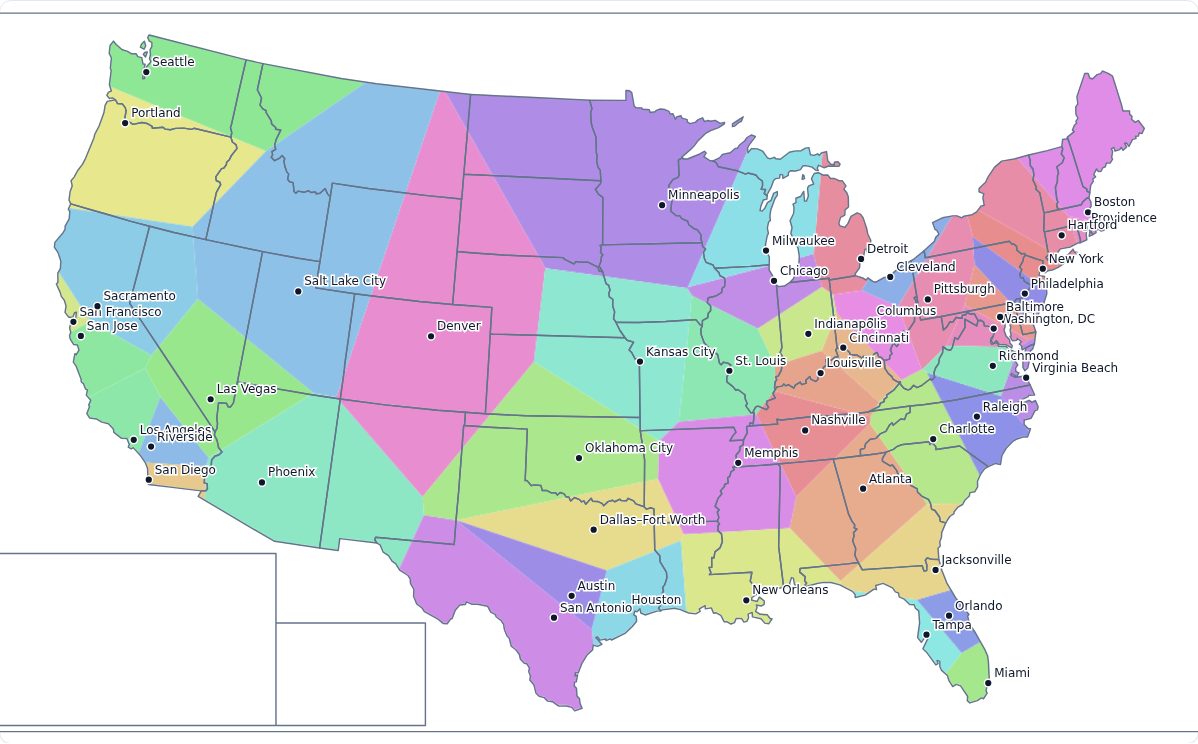
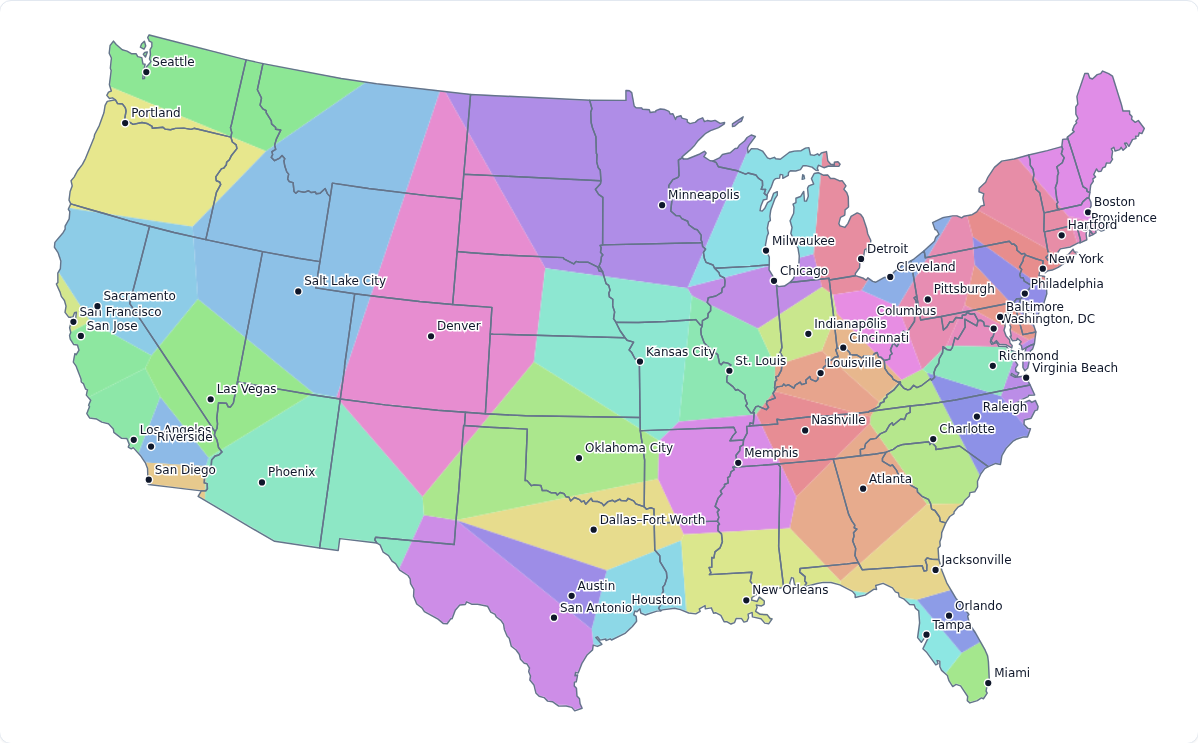
Remove map inset artifacts and align borders/fills to one lower-48 projection (#63)
* fix: use lower-48 Albers projection for every geometry layer; remove inset artifacts

* test: verify painted canvas pixels against state SVG paths on dense grid

* fix: align SVG land hit-testing fill-rule with Canvas evenodd clipping

* test: compare Canvas shading to independently rasterized US land mask to avoid SVG edge false positives

* test: update metro default screenshot [skip ci]

---------

Changed region(s): [[0.0, 0.9583, 0.3706, 0.9892], [0.0, 0.7419, 0.2471, 0.7728]]

diff --git a/src/components/MetroPopulationVoronoi.jsx b/src/components/MetroPopulationVoronoi.jsx
@@ -1,5 +1,5 @@
 import { useEffect, useMemo, useRef, useState } from 'react'
-import { Delaunay, geoAlbersUsa, geoPath } from 'd3'
+import { Delaunay, geoAlbers } from 'd3'
 
 // Illustrative seed data, NOT a complete or validated 2025 Census CBSA inventory.
 // Each row: anchor name, longitude, latitude, approximate metro population.
@@ -117,8 +117,7 @@ const EXCLUDED = new Set(['Alaska', 'Hawaii', 'Puerto Rico'])
 const MIN = 100000
 const MAX = 20000000
 const PRESETS = [100000,250000,500000,1000000,1200000,2000000,5000000,10000000,20000000]
-const projection = geoAlbersUsa().scale(1260).translate([500,310])
-const path = geoPath(projection)
+const projection = geoAlbers().scale(1260).translate([500,310])
 const fmt = n => n >= 1000000 ? `${+(n/1000000).toFixed(2)}M` : `${Math.round(n/1000)}K`
 const clamp = n => Math.min(MAX,Math.max(MIN,Number.isFinite(n)?n:MIN))
 const toTrack = n => Math.round(1000*Math.log(clamp(n)/MIN)/Math.log(MAX/MIN))
@@ -237,7 +236,9 @@ export default function MetroPopulationVoronoi() {
     cellCache.current.set(key,result)
     return result
   },[qualifying,eligibleSignature])
-  const countryPaths = useMemo(()=>states.map(f=>path(f)).filter(Boolean),[states])
+  // Build state SVG outlines from the same projected coordinate rings as Canvas;
+  // geoPath's spherical winding interpretation previously produced Alaska/Hawaii-like inset boxes.
+  const ringToSvg = ring => ring.length < 3 ? '' : `M${ring.map(p=>p.join(',')).join('L')}Z`
   // Use literal GeoJSON rings for Canvas. D3 geoPath treats winding as
   // spherical interior/exterior: some state GeoJSON rings encode the inverse
   // polygon, which rasterized nearly the whole viewport as U.S. land.
@@ -251,6 +252,7 @@ export default function MetroPopulationVoronoi() {
       ring.map(coordinate => projection(coordinate)).filter(Boolean)
     )).filter(polygon => polygon[0]?.length >= 3)
   }), [states])
+  const countryPaths = useMemo(() => landRings.map(polygon => polygon.map(ringToSvg).join('')).filter(Boolean), [landRings])
   // Canvas Path2D clipping is applied by the rasterizer, rather than relying on
   // SVG fragment identifiers (which failed to clip in the deployed application).
   useEffect(() => {
@@ -329,7 +331,7 @@ export default function MetroPopulationVoronoi() {
             <canvas ref={canvasRef} width={1000} height={620} aria-hidden="true"
               data-testid="metro-shading-canvas" className="absolute inset-0 w-full h-full"/>
           <svg viewBox="0 0 1000 620" role="img" aria-label={`Map of ${qualifying.length} qualifying metro regions for population threshold ${threshold}`} className="absolute inset-0 w-full h-full">
-            <g fill="none" stroke="#64748b" strokeWidth="1.2" strokeLinejoin="round" pointerEvents="none">
+            <g fill="none" fillRule="evenodd" stroke="#64748b" strokeWidth="1.2" strokeLinejoin="round" pointerEvents="none">
               {countryPaths.map((d,i)=><path key={i} d={d}/>)}
             </g>
             <g>{qualifying.map(a=><g key={a.id} onClick={()=>setSelected(a)} style={{cursor:'pointer'}}>
